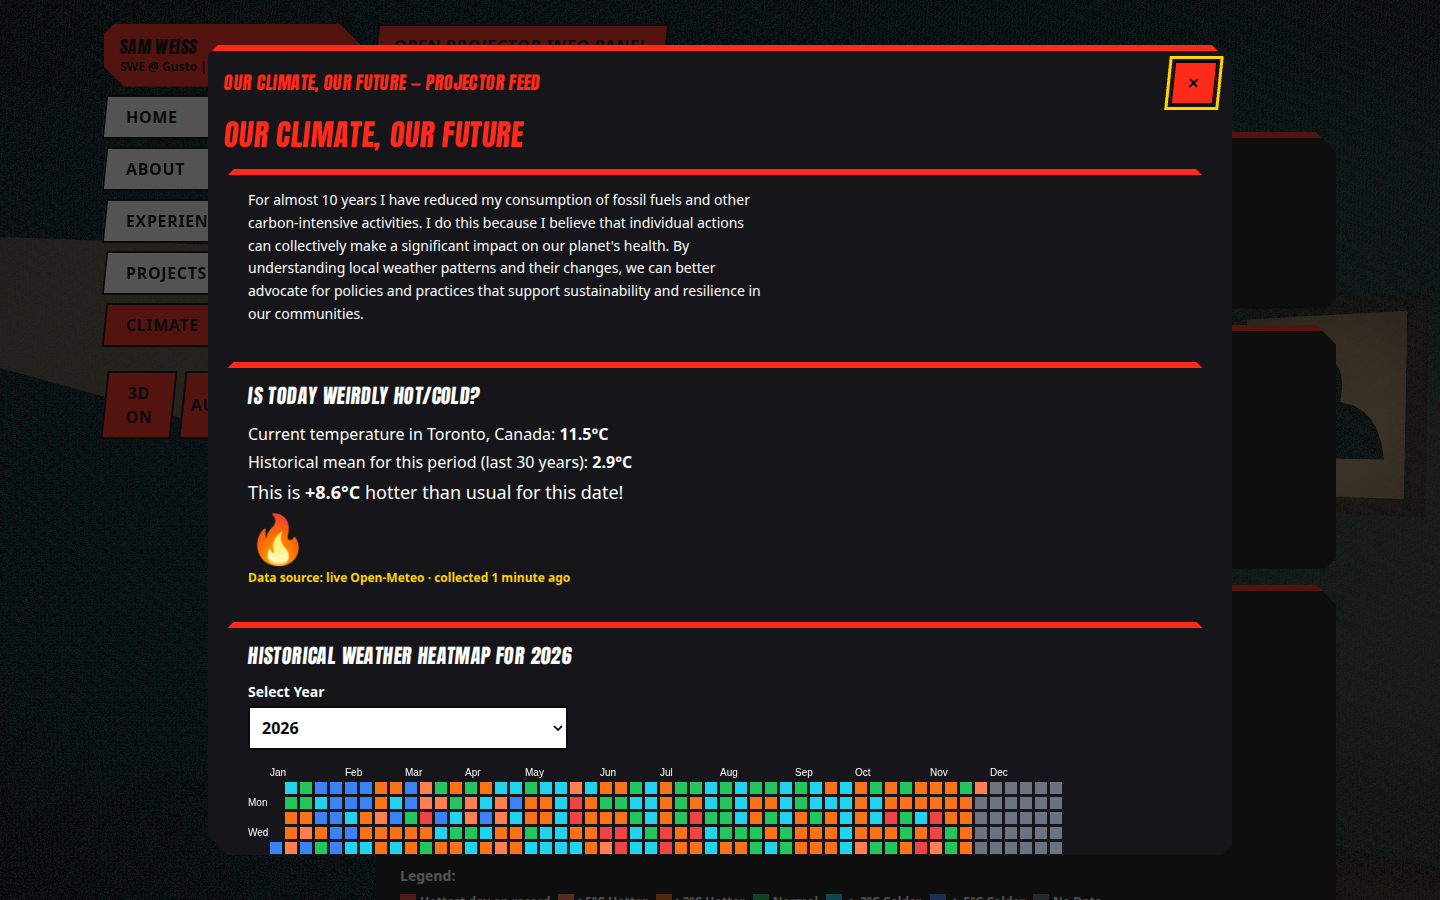
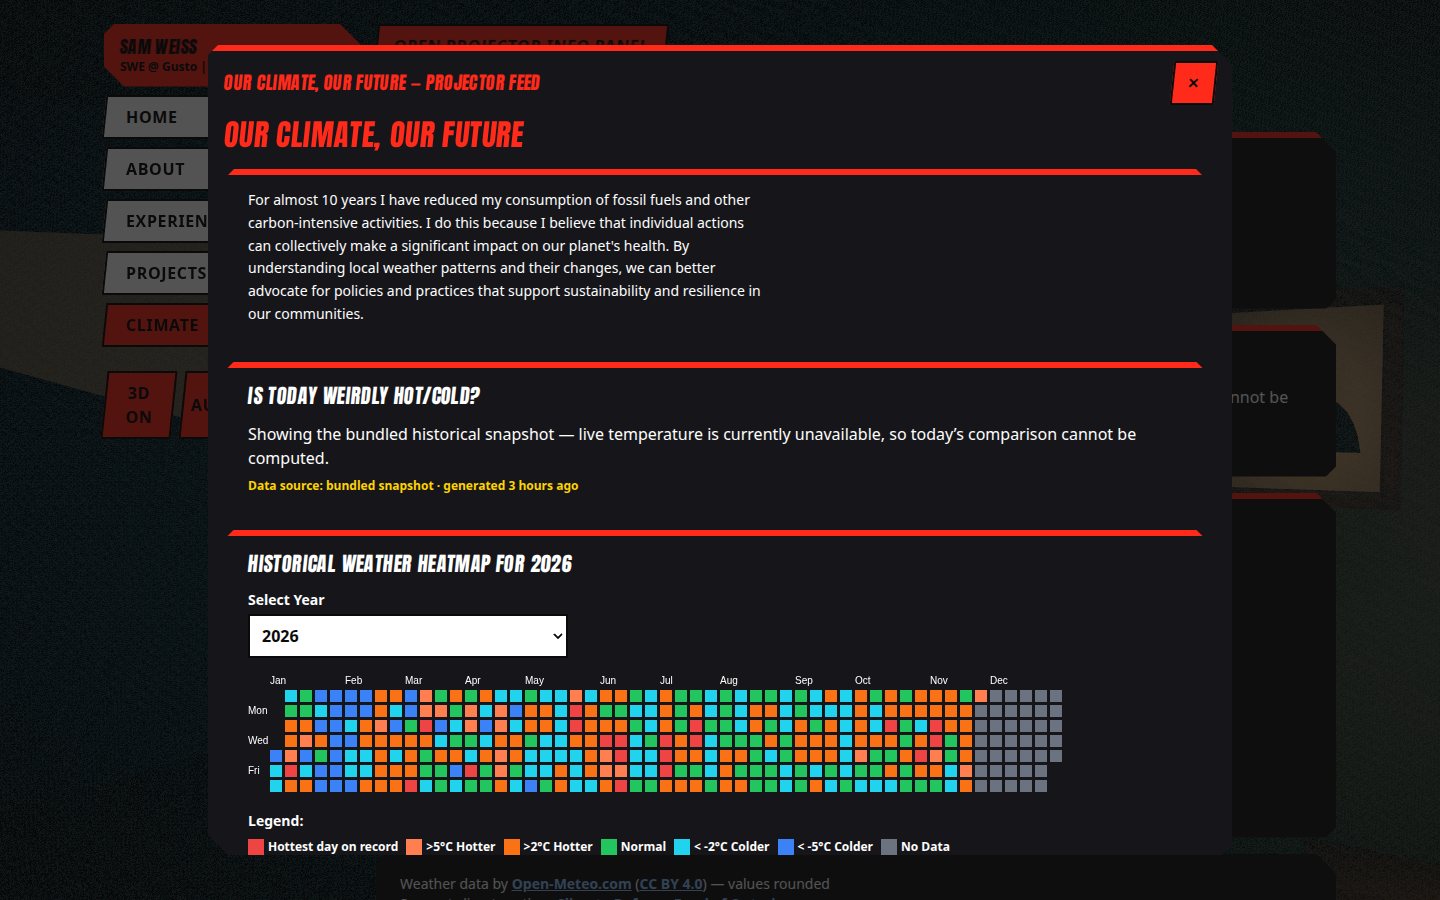
fix(qa): font-license gate + capture harness reproducibility

diff --git a/scripts/qa/capture.spec.ts b/scripts/qa/capture.spec.ts
@@ -20,7 +20,9 @@ import {
  * (`the-room` in src/scene/Room.tsx), DPR and viewports are pinned below, so
  * successive runs produce comparable evidence. The full matrix has 27 shots
  * and 3 clips; SwiftShader software rendering is slow, so `workers: 1` in the
- * config avoids contention. See qa-evidence/REPORT.md for conditions/defects.
+ * config avoids contention. The fixed-pixel 3D picks (book/case/monitor) are
+ * intentional real-pick evidence but a KNOWN FRAGILITY: recalibrate their
+ * coordinates after any geometry/layout change (REPORT.md D4).
  */
 const SHOTS = resolve(process.cwd(), 'qa-evidence/screenshots');
 const CLIPS = resolve(process.cwd(), 'qa-evidence/recordings');
@@ -147,6 +149,23 @@ async function open(page: Page, route: string): Promise<void> {
   ).toBeVisible();
 }
 
+/**
+ * D6: detail/desktop dialogs call useInertBackground(true). A hash navigation
+ * does NOT unmount them, so the next pick/trigger stays inert and the combined
+ * dialog test used to time out at the projector trigger. Close every open
+ * dialog (Escape closes the top window first inside DesktopZoom) before moving
+ * on; assert it actually closed so a stale inert shell cannot poison the next
+ * step silently.
+ */
+async function closeDialogs(page: Page): Promise<void> {
+  for (let attempt = 0; attempt < 5; attempt += 1) {
+    if ((await page.getByRole('dialog').count()) === 0) return;
+    await page.keyboard.press('Escape');
+    await page.waitForTimeout(150);
+  }
+  await expect(page.getByRole('dialog')).toHaveCount(0);
+}
+
 test.describe('key capture matrix (desktop / tablet / mobile)', () => {
   test('desktop 2D zones', async ({ browser }) => {
     const context = await newCaptureContext(browser, {
@@ -200,6 +219,7 @@ test.describe('key capture matrix (desktop / tablet / mobile)', () => {
     await page.screenshot({
       path: resolve(SHOTS, 'desktop_3d_book-detail.png'),
     });
+    await closeDialogs(page);
 
     await page.goto('#/projects');
     await page.locator('.scene-layer--ready').waitFor({ state: 'attached' });
@@ -212,6 +232,7 @@ test.describe('key capture matrix (desktop / tablet / mobile)', () => {
     await page.screenshot({
       path: resolve(SHOTS, 'desktop_3d_case-detail.png'),
     });
+    await closeDialogs(page);
 
     await page.goto('#/about');
     await page.locator('.scene-layer--ready').waitFor({ state: 'attached' });
@@ -219,22 +240,37 @@ test.describe('key capture matrix (desktop / tablet / mobile)', () => {
     await page.mouse.move(850, 350);
     await page.waitForTimeout(200);
     await page.mouse.click(850, 350);
-    await expect(page.getByRole('dialog')).toBeVisible();
+    // Assert the MONITOR dialog specifically — a generic dialog check let a
+    // stale/incorrect pick masquerade as a successful monitor capture (D6).
+    await expect(
+      page.getByRole('dialog', { name: 'About desktop — full screen' }),
+    ).toBeVisible();
     await page.waitForTimeout(400);
     await page.screenshot({
       path: resolve(SHOTS, 'desktop_3d_monitor-zoom.png'),
     });
+    await closeDialogs(page);
 
     await page.goto('#/climate');
     await page.locator('.scene-layer--ready').waitFor({ state: 'attached' });
     await page.waitForTimeout(SWIFT_SETTLE_MS);
+    await closeDialogs(page);
     await page
       .getByRole('button', { name: 'Open projector info panel' })
       .click();
-    await expect(page.getByRole('dialog')).toBeVisible();
-    await page.waitForTimeout(400);
+    const projectorDialog = page.getByRole('dialog');
+    await expect(projectorDialog).toBeVisible();
+    // Wait for CONTENT, not just the dialog shell: a fast screenshot caught
+    // the panels mid cut-in and produced empty dark boxes as false evidence.
+    await expect(
+      projectorDialog.getByText(/Is Today Weirdly Hot/i),
+    ).toBeVisible();
+    await page.waitForTimeout(600);
     await page.screenshot({
       path: resolve(SHOTS, 'desktop_3d_climate-projector-panel.png'),
+      // Finish the P5 cut-in (panels animate from opacity 0); without this the
+      // PNG can show empty dark boxes even though the content is in the DOM.
+      animations: 'disabled',
     });
     await context.close();
   });

diff --git a/tests/check-dist-licenses.test.ts b/tests/check-dist-licenses.test.ts
@@ -1,0 +1,46 @@
+/**
+ * Legal gate B3 regression: the shared Anton OFL is an EXPLICIT exception, not
+ * a blanket pass for every woff2. A newly added font must ship its own sibling
+ * license or fail the gate.
+ */
+import { describe, expect, it } from 'vitest';
+import { checkFontLicenses } from '../scripts/check-dist-licenses.mjs';
+
+const ANTON = 'assets/anton-latin-400-normal-Byf51wtH.woff2';
+const SHARED_OFL = 'fonts/ANTON-OFL.txt';
+const EXTRA = 'assets/newface-regular-AbCd1234.woff2';
+
+describe('checkFontLicenses (B3)', () => {
+  it('passes the current single Anton font with the shared OFL', () => {
+    expect(checkFontLicenses([ANTON, SHARED_OFL])).toEqual([]);
+  });
+
+  it('fails when a second woff2 has NO companion license', () => {
+    expect(checkFontLicenses([ANTON, SHARED_OFL, EXTRA])).toEqual([
+      `${EXTRA}: no companion license`,
+    ]);
+  });
+
+  it('passes the second font once it has its own sibling license', () => {
+    expect(
+      checkFontLicenses([
+        ANTON,
+        SHARED_OFL,
+        EXTRA,
+        'assets/newface-regular-AbCd1234-OFL.txt',
+      ]),
+    ).toEqual([]);
+  });
+
+  it('fails the Anton font itself when the shared OFL is absent', () => {
+    expect(checkFontLicenses([ANTON])).toEqual([
+      `${ANTON}: no companion license`,
+    ]);
+  });
+
+  it('fails when dist has no woff2 at all', () => {
+    expect(checkFontLicenses([SHARED_OFL])).toEqual([
+      'no woff2 found in dist/',
+    ]);
+  });
+});

diff --git a/qa-evidence/REPORT.md b/qa-evidence/REPORT.md
@@ -60,7 +60,7 @@ Command: `npm run size` (= `size-limit` + `node scripts/check-3d-budget.mjs`) on
 | 26  | `desktop_3d_monitor-zoom.png`            | `#/about`                | 1440×900 @1    | 3d           | Full-screen About desktop after 3D monitor pick; "BACK TO ROOM"        | PASS   | Opened by a real 3D pick; icon bar empty before a window opens                            |
 | 27  | `desktop_3d_climate-projector-panel.png` | `#/climate`              | 1440×900 @1    | 3d           | Projector info dialog over room: statement, widget, heatmap, legend    | PASS   | Opened via the accessible "Open projector info panel" trigger                             |
 
-**Result: 27 screenshots on disk (27 in the capture spec); 26 regenerated by the commit-0 harness run, 1 retained (`desktop_3d_climate-projector-panel.png`) because the fresh 3D context did not expose the accessible trigger in time — see D6. The earlier `'1'`-sentinel FAIL shot was deleted.** The harness run was 8/9 tests passing: all screenshot groups and all 3 recordings passed; only the combined dialog test timed out at the projector trigger.
+**Result: 27 screenshots on disk (27 in the capture spec). 26 regenerated by the commit-0 harness run; `desktop_3d_climate-projector-panel.png` was regenerated by the follow-up harness run after the D6 dialog-lifecycle fix (see D6 — RESOLVED). The earlier `'1'`-sentinel FAIL shot was deleted.** The follow-up harness run was **9/9 tests passing**; the combined dialog test now closes each dialog before navigating and waits for real content before capturing.
 
 ## Recordings
 
@@ -76,7 +76,7 @@ Command: `npm run size` (= `size-limit` + `node scripts/check-3d-budget.mjs`) on
 - **D2 — mobile portrait 3D room occlusion.** At 390×844 the authoritative DOM panels cover most of the viewport; the WebGL room renders correctly (canvas present, ready, portrait pull-back applied) but is visible only in slivers. Not a blank canvas or overflow, but 3D fidelity on a phone is mostly hidden by the 2D-first shell.
 - **D3 — mobile climate heatmap scrolls horizontally inside its figure** (`overflow-x-auto`) at 390px; a full-year view needs a horizontal swipe inside the panel. Legend, year selector and attribution remain readable; the page itself has no horizontal overflow.
 - **D4 — 3D pick hit areas are fiddly.** Hover-grid searches found books/projector but initially missed game cases/monitor; direct coordinates opened them. Picks work, but effective hit targets are small relative to the overlaid DOM cards. The harness uses fixed pixel coordinates recorded from this baseline for the book/case/monitor picks; they may need recalibration after geometry/layout changes (captured in the spec comment).
-- **D6 — projector dialog shot retained from the prior pass.** In the commit-0 harness run, the "Open projector info panel" accessible trigger was not found in the fresh dialog test context (Playwright test timeout after 3 min). The other three dialogs and all recordings regenerated successfully; the retained projector PNG remains valid evidence but is not freshly reproduced by commit 0. Prefer the accessible trigger in future runs; the three fixed-coordinate picks are intentionally real-3D evidence (D4).
+- **D6 — RESOLVED (was: projector dialog shot retained from the prior pass).** Root cause: the combined dialog test navigated by hash without unmounting each detail/desktop dialog; `useInertBackground(true)` kept the rest of the app inert, so the accessible "Open projector info panel" trigger could not be clicked (3 min timeout). The monitor pick also left a stale dialog that a generic `getByRole('dialog')` assertion accepted as success. Fix in `scripts/qa/capture.spec.ts`: close every dialog (Escape, up to 5 times for nested About windows) after each pick and before each navigation, assert the monitor dialog by its accessible name, and wait for the projector panel's actual content with CSS animations disabled so the PNG is not blank. The harness now runs 9/9 and `desktop_3d_climate-projector-panel.png` was freshly regenerated. The three fixed-pixel 3D picks remain intentionally real-3D evidence but a **known fragility** (D4) — recalibrate after geometry/layout changes.
 - **D5 — screencast frame starvation** under SwiftShader + demand frameloop; screenshots between steps force frames. Software rendering understates real-device smoothness; do not judge real FPS from these clips.
 - **No blank WebGL canvas, horizontal page overflow, cut-off text or missing climate widgets were observed in any passing shot.** All four fallback gates, the loading indicator and all four 3D dialogs behaved as intended.
 
@@ -86,7 +86,7 @@ Command: `npm run size` (= `size-limit` + `node scripts/check-3d-budget.mjs`) on
 cd portfolio
 npm ci
 npx playwright install chromium   # once; browsers are cached after this
-npm run capture:qa                # build → vite preview → 28 PNGs + 3 WebMs
+npm run capture:qa                # build → vite preview → 27 PNGs + 3 WebMs
 ```
 
 The command writes `qa-evidence/screenshots/` and `qa-evidence/recordings/` in place. Temporary Playwright artifacts go to the gitignored `qa-evidence/.artifacts/`. The 3D paths use the SwiftShader launch args in `playwright.config.ts`; to inspect manually, serve `npm run preview -- --host 127.0.0.1 --port 4173` and open `http://127.0.0.1:4173/portfolio/#/<route>` in Chromium with those args.

diff --git a/README.md b/README.md
@@ -36,9 +36,11 @@ npm run size           # shell ≤120 KB + lazy 3D chunk ≤260 KB (brotli)
 
 `npm run build` copies `public/404.html` (legacy Next.js path → hash-route redirector) and a no-JS static mirror into `dist/`. `dist/index.html` carries exactly one inlined `<style>` and no dev-only critical-mirror block; CI asserts both.
 
-### Browser visual QA hooks (deferred to the owner's real-browser pass)
+### Browser visual QA (`npm run capture:qa`)
 
-The automated suite is headless (jsdom + `@react-three/test-renderer`): it verifies structure, state and a11y, **not pixels**. Playwright/Lighthouse tooling is intentionally not installed and no broken CI job was added; browser screenshots, the full device/viewport matrix and Lighthouse budgets remain a manual owner gate. For a headless-browser screenshot run:
+The unit suite is headless (jsdom + `@react-three/test-renderer`): it verifies structure, state and a11y, **not pixels**. Pixel evidence is produced by the committed Playwright harness: install Chromium once (`npx playwright install chromium`), then run `npm run capture:qa` (build → `vite preview` → deterministic capture matrix). It writes 27 screenshots and 3 recordings to `qa-evidence/`; `qa-evidence/REPORT.md` documents conditions, the device matrix and known defects. SwiftShader software WebGL is used headlessly, so judge real smoothness from frame-time metrics, not the clips. Owner visual gates remain part of the ladder.
+
+Manual browser hooks for inspection:
 
 - Force 3D without relying on GPU detection: set `localStorage.setItem('portfolio:mode', '3d')` (and clear `portfolio:3d-failed`) before loading the page. Clear the key (or click `Auto`) to return to automatic mode.
 - Routes (hash): `#/`, `#/about`, `#/experience`, `#/projects`, `#/climate`.
